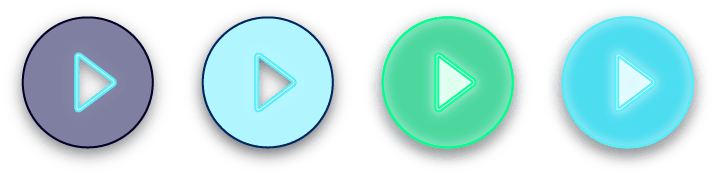
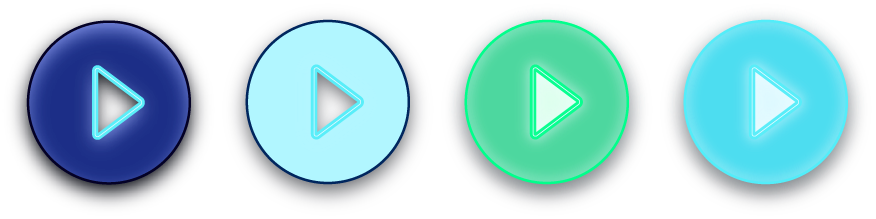
Sidetrack - Edits to art and UI placement - steps 8 and 10
https://phabricator.endlessm.com/T26558

diff --git a/com.endlessm.Sidetrack/app/js/scenes/gameScene.js b/com.endlessm.Sidetrack/app/js/scenes/gameScene.js
@@ -169,9 +169,9 @@ class GameScene extends Phaser.Scene {
 
         if (this.gameType === PLAYTHRUGAME) {
             this.playButton = new Button(this, 0, 0, 'playButton', 0, 1,
-                1, 1, this.playButtonClick.bind(this));
+                1, 1, this.playButtonClick.bind(this)).setOrigin(0);
 
-            this.setSpritePosition(this.playButton, -1, this.countY, -75, 20);
+            this.setSpritePosition(this.playButton, -2, this.countY, -20, -10);
 
             const x = 0;
             const y = this.countY * this.tileLength + this.yOffset - 10;
@@ -179,8 +179,8 @@ class GameScene extends Phaser.Scene {
             this.separator = this.add.sprite(x - this.tileLength, y,
                 'separator').setVisible(false).setOrigin(0);
         } else {
-            const scaleX = 0.5;
-            const scaleY = 0.5;
+            const scaleX = 1;
+            const scaleY = 1;
 
             this.fowardKeyButton = new Button(this, 0, 0, 'moveSquares', 1,
                 this.moveSquareOffset, scaleX, scaleY, () => {
@@ -188,7 +188,7 @@ class GameScene extends Phaser.Scene {
                         this.isMoving = true;
                         this.queue.push(FORWARD);
                     }
-                });
+                }).setOrigin(0);
 
             this.upKeyButton = new Button(this, 0, 0, 'moveSquares', 2,
                 this.moveSquareOffset, scaleX, scaleY, () => {
@@ -196,7 +196,7 @@ class GameScene extends Phaser.Scene {
                         this.isMoving = true;
                         this.queue.push(UP);
                     }
-                });
+                }).setOrigin(0);
 
             this.downKeyButton = new Button(this, 0, 0, 'moveSquares', 3,
                 this.moveSquareOffset, scaleX, scaleY, () => {
@@ -204,7 +204,7 @@ class GameScene extends Phaser.Scene {
                         this.isMoving = true;
                         this.queue.push(DOWN);
                     }
-                });
+                }).setOrigin(0);
 
             this.spacebarButton = new Button(this, 0, 0, 'spaceBar', 0, 1,
                 scaleX, scaleY, () => {
@@ -214,12 +214,12 @@ class GameScene extends Phaser.Scene {
                         this.player.anims.stop('running');
                         this.player.anims.play('jumping');
                     }
-                });
+                }).setOrigin(0);
 
-            this.setSpritePosition(this.fowardKeyButton, -1, this.countY, 0, 50);
-            this.setSpritePosition(this.upKeyButton, -1, this.countY, 0, -20);
-            this.setSpritePosition(this.downKeyButton, -1, this.countY, 0, 120);
-            this.setSpritePosition(this.spacebarButton, -1, this.countY, -100, 50);
+            this.setSpritePosition(this.fowardKeyButton, -2, this.countY - 1, -20, -10);
+            this.setSpritePosition(this.upKeyButton, -2, this.countY - 2, -20, -10);
+            this.setSpritePosition(this.downKeyButton, -2, this.countY, -20, -10);
+            this.setSpritePosition(this.spacebarButton, -3, this.countY - 1, -20, -10);
         }
 
         /* Reset Global game state */
@@ -804,7 +804,7 @@ class GameScene extends Phaser.Scene {
 
         for (let i = 0; i <= this.MAXMOVES; i++) {
             sprite = this.add.sprite(0, 0, 'moveSquares', NONE).setOrigin(0);
-            this.setSpritePosition(sprite, i, this.countY, -15, 10);
+            this.setSpritePosition(sprite, i, this.countY, -15, 16);
             this.arrSpriteMoves.push(sprite);
         }
 
@@ -884,7 +884,7 @@ class GameScene extends Phaser.Scene {
         txtLevel.depth = 1;
 
         if (this.gameType === DEFAULTGAME) {
-            const txtSpace = this.add.text(220, 910, 'space', {
+            const txtSpace = this.add.text(120, 770, 'Spacebar', {
                 font: '18pt Metropolis-Medium',
                 fill: '#def9ff',
             });

diff --git a/com.endlessm.Sidetrack/app/js/scenes/loadingScene.js b/com.endlessm.Sidetrack/app/js/scenes/loadingScene.js
@@ -66,15 +66,15 @@ class LoadingScene extends Phaser.Scene {
         });
 
         this.load.spritesheet('spaceBar', 'assets/images/spaceBar.png', {
-            frameWidth: 268,
-            frameHeight: 168,
+            frameWidth: 156,
+            frameHeight: 156,
             margin: 0,
             spacing: 0,
         });
 
         this.load.spritesheet('playButton', 'assets/images/playButton.png', {
-            frameWidth: 179,
-            frameHeight: 177,
+            frameWidth: 219,
+            frameHeight: 219,
             margin: 0,
             spacing: 0,
         });
